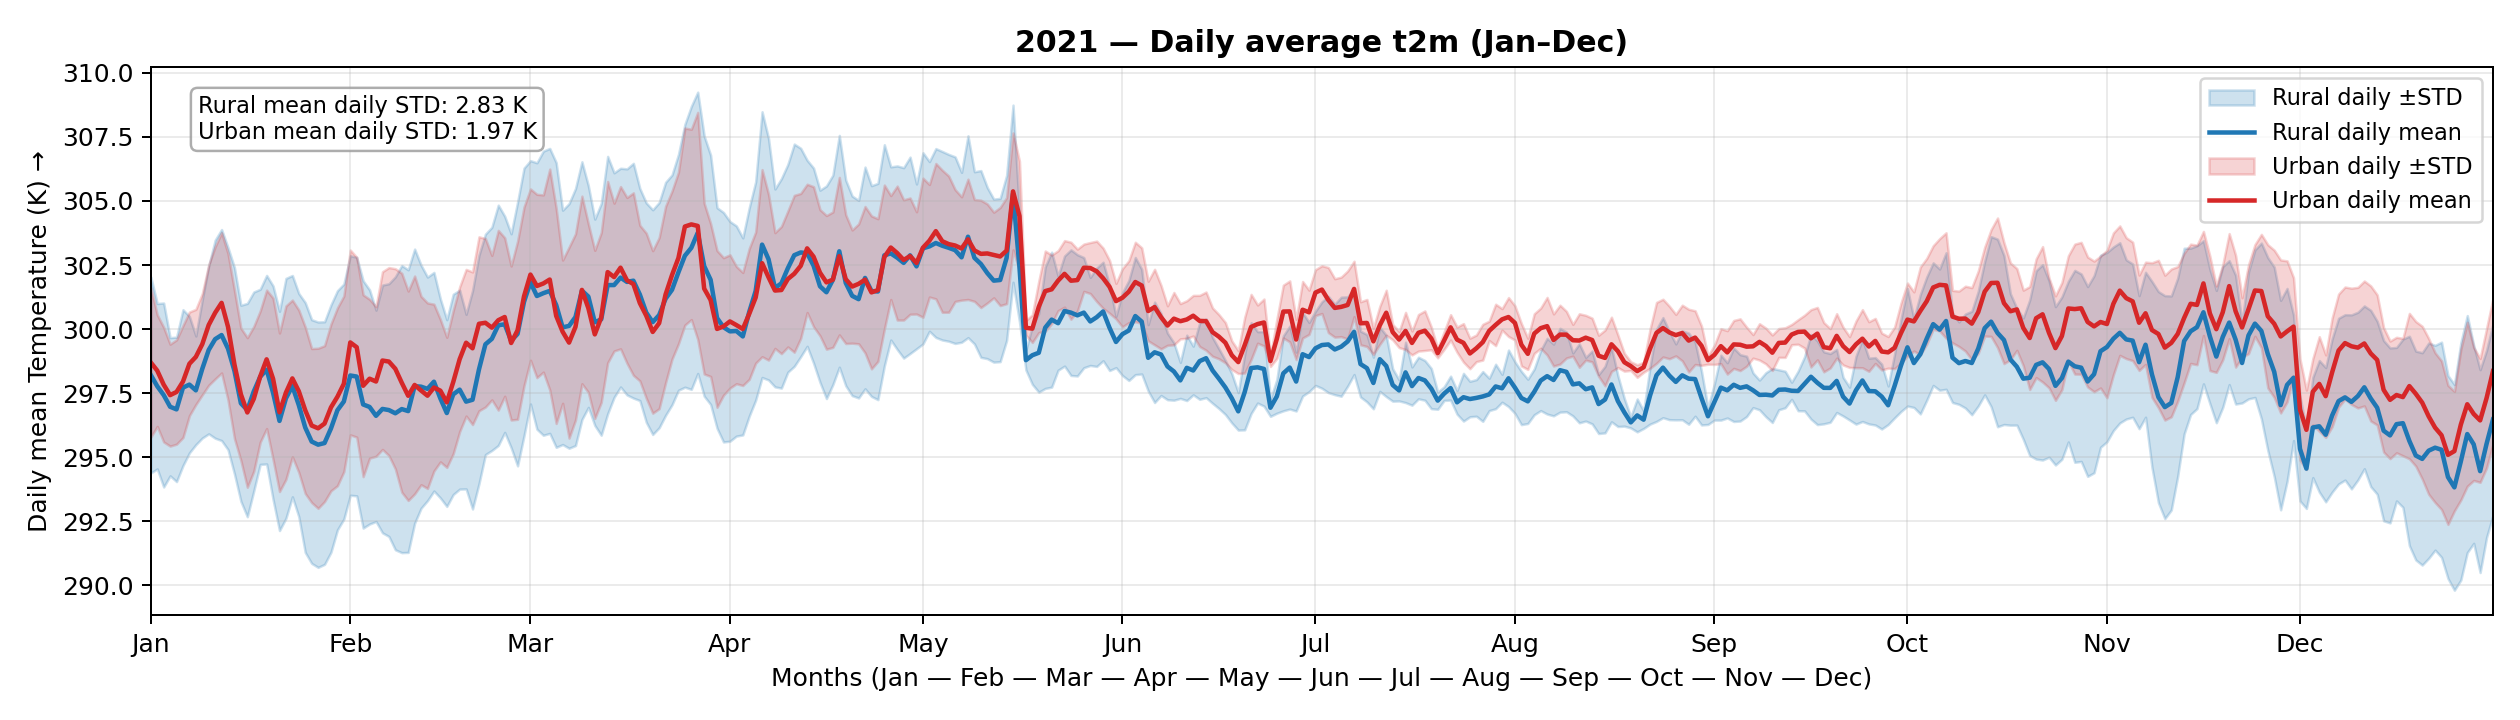
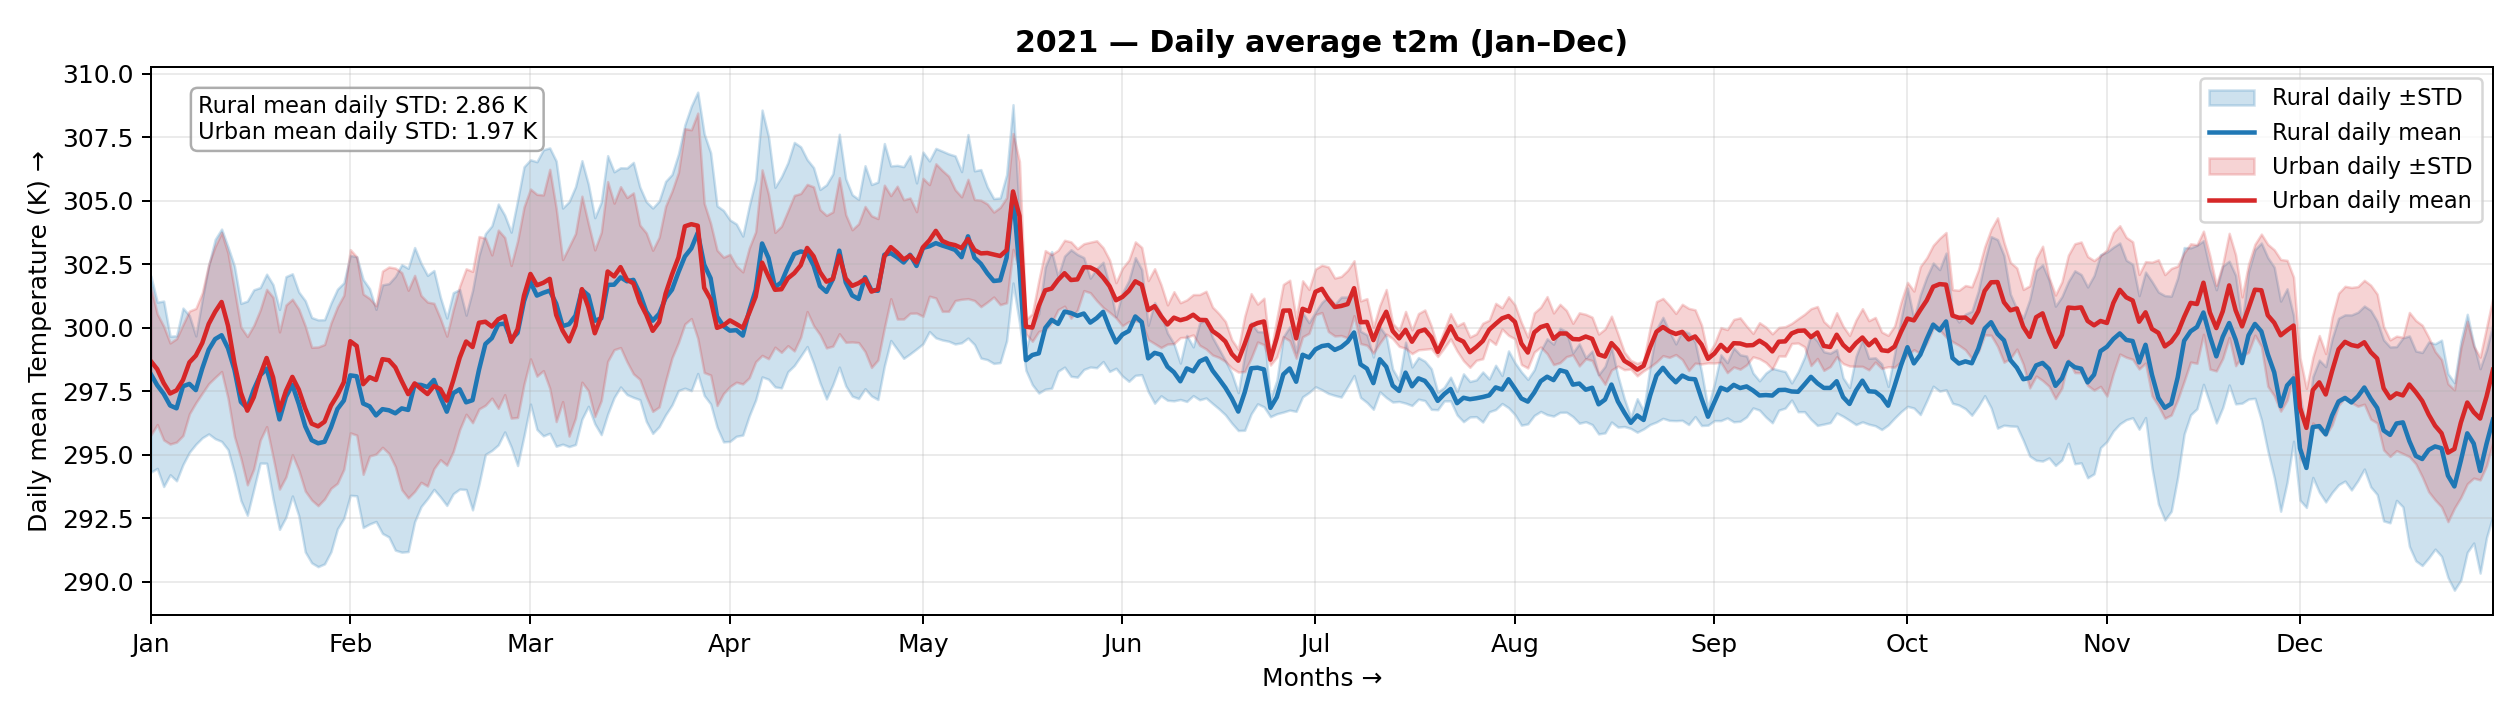
Made Slight Changes to Code

diff --git a/Visualization/Daily and Hourly Plots Updated/daily_hourly_plots_updated.py b/Visualization/Daily and Hourly Plots Updated/daily_hourly_plots_updated.py
@@ -9,7 +9,7 @@ from datetime import datetime
 import matplotlib.dates as mdates
 
 # --------- CONFIG ----------
-DATA_ROOT = os.path.join("..", "Dataset")  # adjust if needed
+DATA_ROOT = os.path.join("..", "..", "Dataset")  # adjust if needed
 YEARS = ["2020", "2021", "2022", "2023", "2024"]
 MONTH_ORDER = [
     "January",
@@ -175,7 +175,18 @@ def parse_times_for_var(ds, time_name):
 
 
 # compute per-timestep spatial mean+std for a bounding box
-def compute_mean_std_per_timestep(files, lat_min, lat_max, lon_min, lon_max):
+# (optionally excluding an inner bounding box)
+def compute_mean_std_per_timestep(
+    files,
+    lat_min,
+    lat_max,
+    lon_min,
+    lon_max,
+    exclude_lat_min=None,
+    exclude_lat_max=None,
+    exclude_lon_min=None,
+    exclude_lon_max=None,
+):
     times = []
     means = []
     stds = []
@@ -196,8 +207,25 @@ def compute_mean_std_per_timestep(files, lat_min, lat_max, lon_min, lon_max):
             raise RuntimeError(f"Could not find time variable in {f}")
 
         lat2, lon2 = extract_lat_lon(ds, lat_name, lon_name)
+
+        # build mask (with optional exclusion) only once
         if mask is None:
-            mask = make_mask_from_bbox(lat2, lon2, lat_min, lat_max, lon_min, lon_max)
+            base_mask = make_mask_from_bbox(
+                lat2, lon2, lat_min, lat_max, lon_min, lon_max
+            )
+            if exclude_lat_min is not None:
+                exclude_mask = make_mask_from_bbox(
+                    lat2,
+                    lon2,
+                    exclude_lat_min,
+                    exclude_lat_max,
+                    exclude_lon_min,
+                    exclude_lon_max,
+                )
+                mask = base_mask & (~exclude_mask)
+            else:
+                mask = base_mask
+
             if not mask.any():
                 ds.close()
                 raise RuntimeError(f"No gridpoints found in bbox for file {f}")
@@ -213,9 +241,8 @@ def compute_mean_std_per_timestep(files, lat_min, lat_max, lon_min, lon_max):
             dt = dtimes[ti]
             if pd.isna(dt):
                 continue
-            month = dt.month
             hour = dt.hour
-            # Process all months (Jan-Dec) -> no month filtering here
+            # Process all months (Jan-Dec); only filter by hour
             if hour not in HOURS_KEEP:
                 continue
 
@@ -280,9 +307,19 @@ def make_and_save_separate_figures(data_root, years):
                 month_files.extend(found)
         use_files = month_files if month_files else files
 
+        # Rural = big box excluding inner urban box
         rural_df = compute_mean_std_per_timestep(
-            use_files, R_lat_min, R_lat_max, R_lon_min, R_lon_max
+            use_files,
+            R_lat_min,
+            R_lat_max,
+            R_lon_min,
+            R_lon_max,
+            exclude_lat_min=U_lat_min,
+            exclude_lat_max=U_lat_max,
+            exclude_lon_min=U_lon_min,
+            exclude_lon_max=U_lon_max,
         )
+        # Urban = inner box only
         urban_df = compute_mean_std_per_timestep(
             use_files, U_lat_min, U_lat_max, U_lon_min, U_lon_max
         )
@@ -307,13 +344,13 @@ def make_and_save_separate_figures(data_root, years):
         )
 
         ax_h.set_title(
-            f"{year} — Hourly t2m at 8 timepoints/day (Jan–Dec)",
+            f"{year} - Hourly t2m at 8 timepoints/day (Jan–Dec)",
             fontsize=12,
             weight="bold",
         )
         ax_h.set_ylabel("Temperature (K) →", fontsize=10)
         ax_h.set_xlabel(
-            "Months (Jan — Feb — Mar — Apr — May — Jun — Jul — Aug — Sep — Oct — Nov — Dec)",
+            "Months →",
             fontsize=10,
         )
         ax_h.xaxis.set_major_locator(month_locator)
@@ -394,7 +431,7 @@ def make_and_save_separate_figures(data_root, years):
         )
         ax_d.set_ylabel("Daily mean Temperature (K) →", fontsize=10)
         ax_d.set_xlabel(
-            "Months (Jan — Feb — Mar — Apr — May — Jun — Jul — Aug — Sep — Oct — Nov — Dec)",
+            "Months →",
             fontsize=10,
         )
         ax_d.xaxis.set_major_locator(month_locator)
